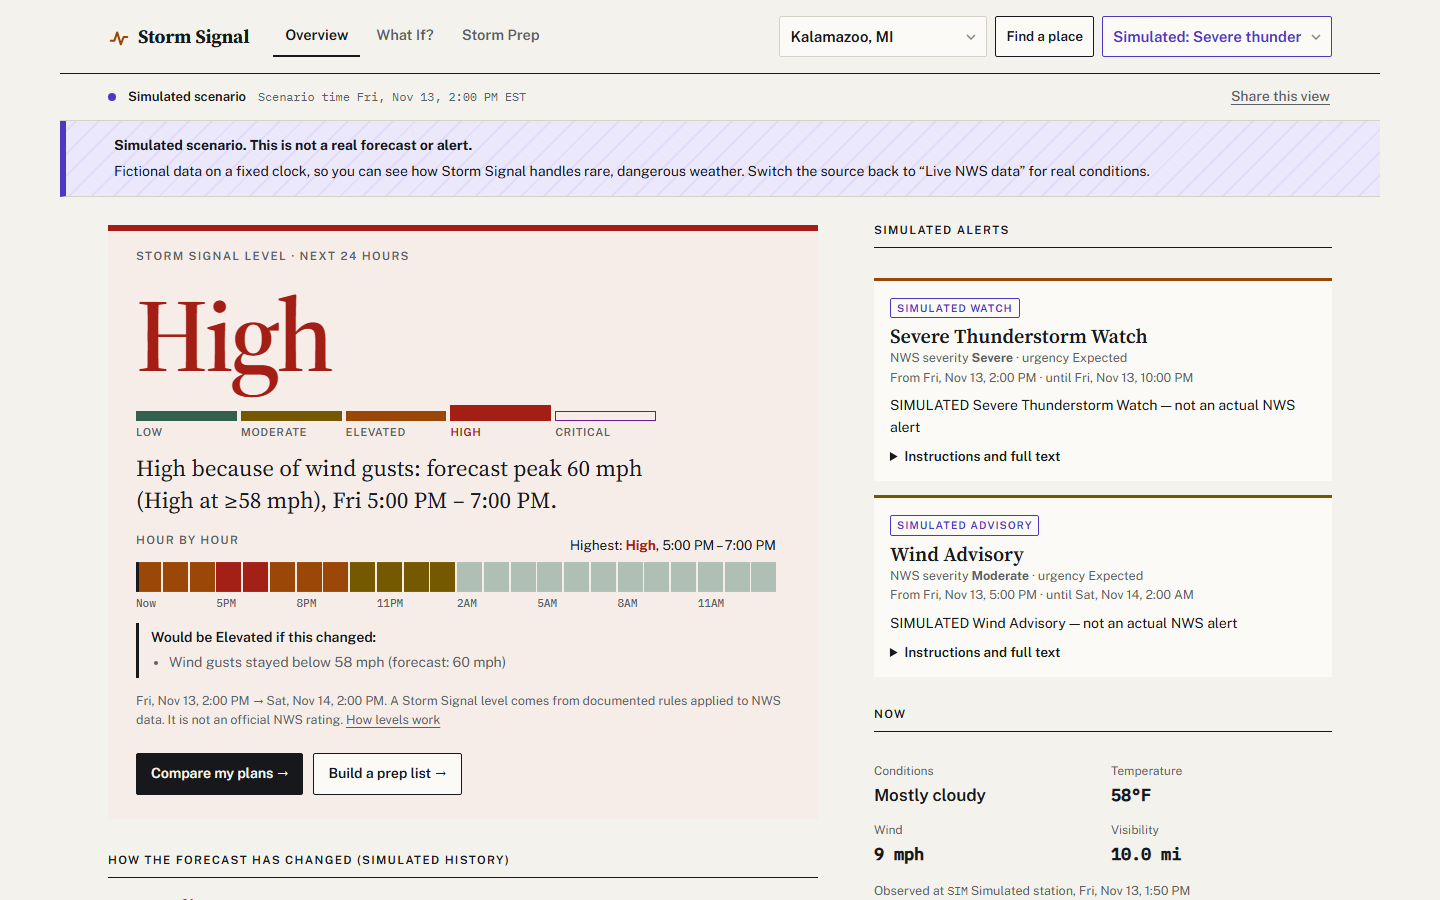
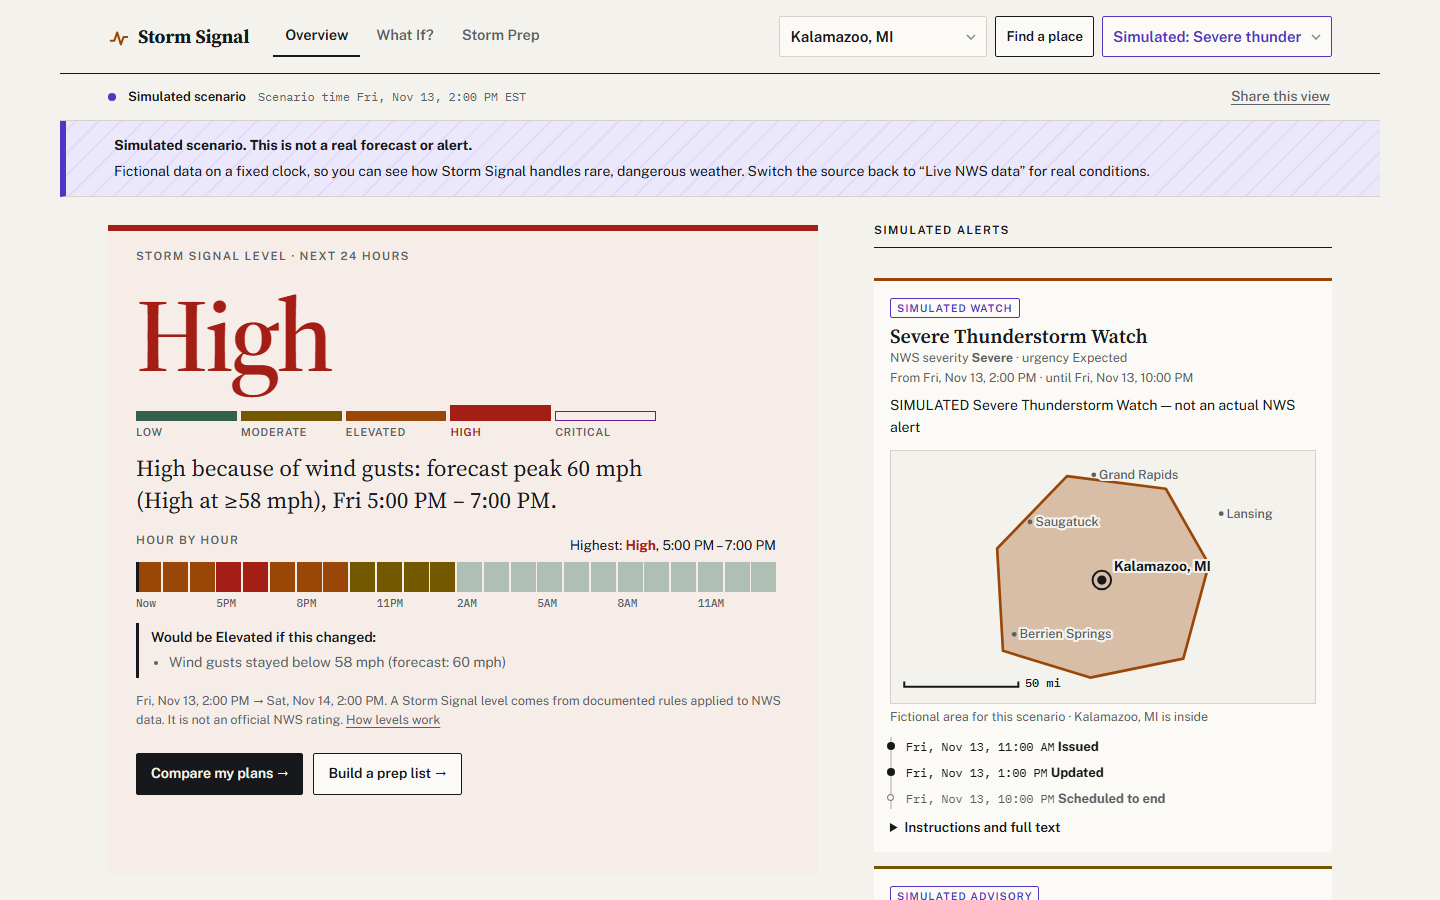
Rank map towns by ZIPs within their own footprint; wait for alert areas in screenshots
A small place next to a city could borrow the city's ZIP codes and win the
label (Phoenix over Medford, OR). Refresh screenshots from the live site.

Changed region(s): [[0.5938, 0.4978, 0.9062, 1.0], [0.0625, 0.9333, 0.3438, 0.9644]]

diff --git a/backend/geocode.ts b/backend/geocode.ts
@@ -118,7 +118,9 @@ export function placesIn(box: { minLon: number; minLat: number; maxLon: number; 
   return PLACES.filter(([, , lat, lon]) => lat >= box.minLat && lat <= box.maxLat && lon >= box.minLon && lon <= box.maxLon)
     .sort((a, b) => b[4] - a[4])
     .slice(0, 300)
-    .map((p) => ({ p, score: zipsNear(p[2], p[3]) * 1000 + p[4] }))
+    // Count ZIPs within the place's own footprint (radius from its land area), so a small
+    // neighbour can't borrow a big city's ZIP codes.
+    .map((p) => ({ p, score: zipsNear(p[2], p[3], Math.max(3, Math.sqrt(p[4] / Math.PI))) * 1000 + p[4] }))
     .sort((a, b) => b.score - a.score)
     .reduce<[string, string, number, number, number][]>((kept, { p }) => {
       // One label per cluster: skip places within about a sixth of the box of one already kept.

diff --git a/scripts/screenshots.ts b/scripts/screenshots.ts
@@ -40,7 +40,9 @@ try {
     await page.goto(`${base}/#${s.hash}`);
     if (s.source !== "live") await page.locator(".src select").selectOption(s.source);
     else await page.getByText(/^Retrieved /).waitFor({ timeout: 25000 });
-    await page.waitForTimeout(400);
+    // Let alert-area lookups (zone outlines, town labels) finish before capturing.
+    await page.waitForLoadState("networkidle").catch(() => {});
+    await page.waitForTimeout(600);
     if (s.element) await page.locator(s.element).screenshot({ path: resolve(out, s.name + ".png") });
     else await page.screenshot({ path: resolve(out, s.name + ".png"), fullPage: !!s.full });
     console.log(s.name + ".png");
